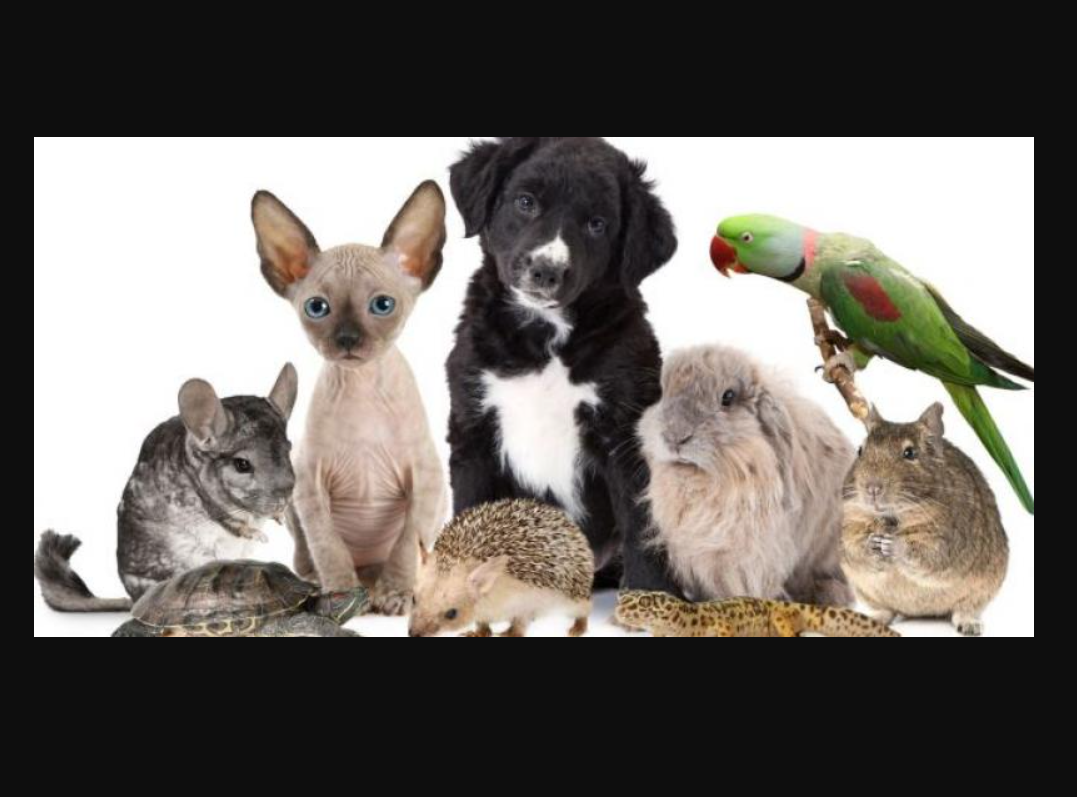
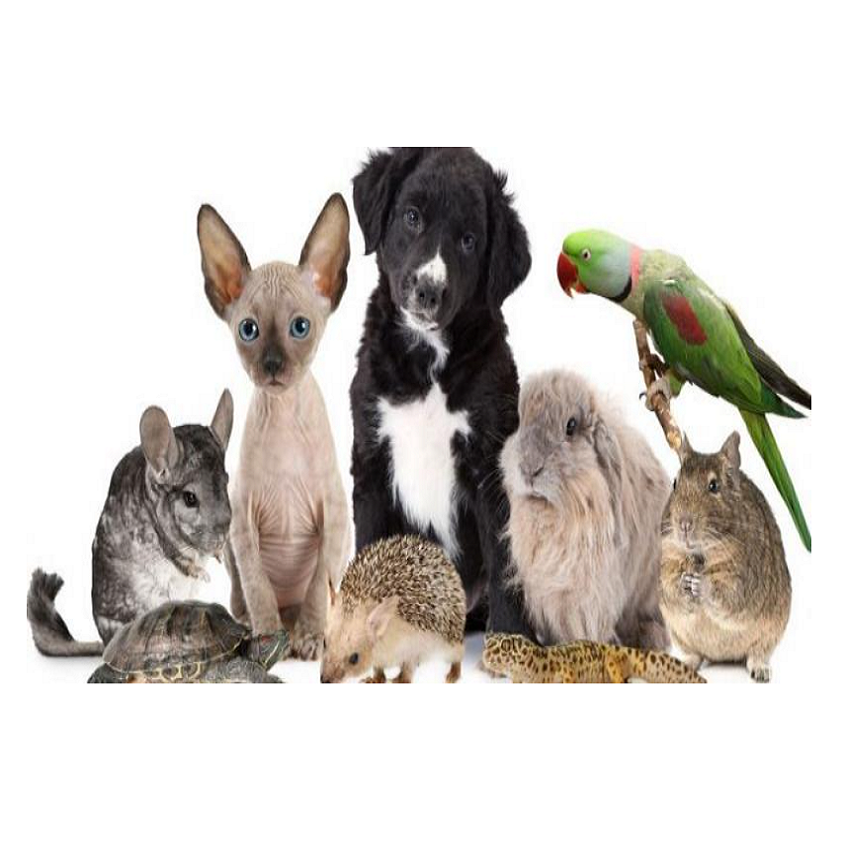
mejore resolucion de imagenes para que encajen

diff --git a/index.html b/index.html
@@ -61,23 +61,23 @@
         </div>
     </div>
     <!--barrra de buqueda-->
-    <div class="busqueda"> 
+    <div class="busqueda">
         <div class="container-fluid">
             <nav class="navbar navbar-expand-lg ">
                 <button class="navbar-toggler" type="button" aria-expanded="false" aria-label="Toggle navigation">
-                  <span class="navbar-toggler-icon"></span>
+                    <span class="navbar-toggler-icon"></span>
                 </button>
                 <div class="collapse navbar-collapse" id="navbarTogglerDemo01">
-                  <form class="form-inline my-2 my-lg-1">
-                    <input class="form-control mr-sm-2" type="search" placeholder="Busca" aria-label="Search">
-                    <button class="btn btn-outline-success my-2 my-sm-0" type="submit">Buscar</button>
-                  </form>
+                    <form class="form-inline my-2 my-lg-1">
+                        <input class="form-control mr-sm-2" type="search" placeholder="Busca" aria-label="Search">
+                        <button class="btn btn-outline-success my-2 my-sm-0" type="submit">Buscar</button>
+                    </form>
                 </div>
-              </nav>
+            </nav>
         </div>
-       
+
     </div>
-    <p class="parrafo">  Lorem ipsum dolor sit amet consectetur adipisicing elit
+    <p class="parrafo"> Lorem ipsum dolor sit amet consectetur adipisicing elit
         . Quidem cumque quam ipsum pariat
         ur vel voluptatibus necessitatibus voluptates ducimus. Delectus eligendi deserunt obcaecat
         i! Maxime ipsam perspiciatis dolores qui fugiat beatae rem?</p>
@@ -93,21 +93,19 @@
                     <button type="button" data-bs-target="#demo" data-bs-slide-to="1"></button>
                     <button type="button" data-bs-target="#demo" data-bs-slide-to="2"></button>
                 </div>
-
                 <!-- The slideshow/carousel -->
                 <div class="carousel-inner">
-                    
+
                     <div class="carousel-item">
                         <img class="img_carrucel" src="Img/carrucel1.png" alt="Chicago" class="d-block w-100">
                         <div class="boton_imagencarr">
                             <button type="button" class="btn btn-primary active">las mejores ofertas</button>
                         </div>
                     </div>
+                    
                     <div class="carousel-item">
-                        <p class="parrafo">Toddo para los mas queriros de la familia,esos regalones 
-                            de la casa ¡porque se lo merecen!
-                        </p>
-                        <img id="carrusel1" src="Img/carrusel.png" alt="" class="d-block w-100">
+
+                        <img id="carrusel1" src="Img/carrusel.png" alt="animales" class="d-block w-100">
                         <div class="boton_imagencarr">
                             <button type="button" class="btn btn-primary active">regalonealos</button>
                         </div>
@@ -119,46 +117,56 @@
                         </div>
                     </div>
                 </div>
-          
-            <!-- Left and right controls/icons -->
-            <button class="carousel-control-prev" type="button" data-bs-target="#demo" data-bs-slide="prev">
-              <span class="carousel-control-prev-icon"></span>
-            </button>
-            <button class="carousel-control-next" type="button" data-bs-target="#demo" data-bs-slide="next">
-              <span class="carousel-control-next-icon"></span>
-            </button>
-          </div>
-    </div>
-   
-    
-    
-  <!--salto de línea-->
-  <a></a>
-   
-   
-   <!--container que contendra la información relevante  de la tienda-->
-   <h5 class="container_inferior">
-      
-     <div class="container-xl p-5 my-5 bg-dark text-white">
-        <div class="row">
-    
-            <div class="col-sm-3"><button type="button" class="btn btn-link"><h4>@MyPets</h4></button><p >encuentranos en instagram somos una tienda muy activa y encontraras de todo para tú mascota</p></div>
-            <div class="col-sm-3"><button type="button" class="btn btn-link"><h4>www.soporte.cl</h4></button><p >el soporte necesario para tus compras en línea errores de página</p></div>
-            <div class="col-sm-3"> <button type="button" class="btn btn-success">suscribete</button><p>no solo tendras beneficios de descuentos sino aydaras a una fundación sin fines de lucro</p></div>
-            <div class="col-sm-3"><button type="button" class="btn btn-info">¿Quiénes somos?</button><p>somos una empresa que vende y ayuda a el cuidado y entretenció...presionar para más info</p></div>
+
+                <!-- Left and right controls/icons -->
+                <button class="carousel-control-prev" type="button" data-bs-target="#demo" data-bs-slide="prev">
+                    <span class="carousel-control-prev-icon"></span>
+                </button>
+                <button class="carousel-control-next" type="button" data-bs-target="#demo" data-bs-slide="next">
+                    <span class="carousel-control-next-icon"></span>
+                </button>
+            </div>
         </div>
-     </div>
-    
-       
-   </h5>
-   
-    
-   
-  
+
+
+
+        <!--salto de línea-->
+        <a></a>
+
+
+        <!--container que contendra la información relevante  de la tienda-->
+        <h5 class="container_inferior">
+
+            <div class="container-xl p-5 my-5 bg-dark text-white">
+                <div class="row">
+
+                    <div class="col-sm-3"><button type="button" class="btn btn-link">
+                            <h4>@MyPets</h4>
+                        </button>
+                        <p>encuentranos en instagram somos una tienda muy activa y encontraras de todo para tú mascota
+                        </p>
+                    </div>
+                    <div class="col-sm-3"><button type="button" class="btn btn-link">
+                            <h4>www.soporte.cl</h4>
+                        </button>
+                        <p>el soporte necesario para tus compras en línea errores de página</p>
+                    </div>
+                    <div class="col-sm-3"> <button type="button" class="btn btn-success">suscribete</button>
+                        <p>no solo tendras beneficios de descuentos sino aydaras a una fundación sin fines de lucro</p>
+                    </div>
+                    <div class="col-sm-3"><button type="button" class="btn btn-info">¿Quiénes somos?</button>
+                        <p>somos una empresa que vende y ayuda a el cuidado y entretenció...presionar para más info</p>
+                    </div>
+                </div>
+            </div>
+
+
+        </h5>
+
+
+
+
 </body>
 
 
 </html>
-
-
-

diff --git a/perro.html b/perro.html
@@ -1,5 +1,5 @@
 <!DOCTYPE html>
-<html lang="en">
+<html lang="es">
 <head>
     <meta charset="UTF-8">
     <meta http-equiv="X-UA-Compatible" content="IE=edge">
